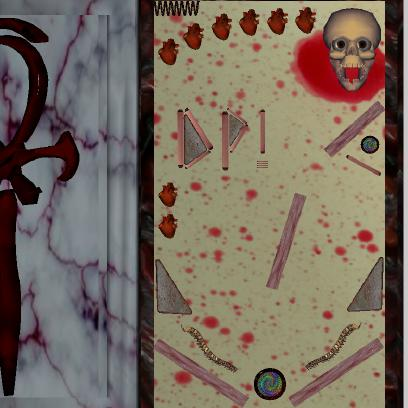
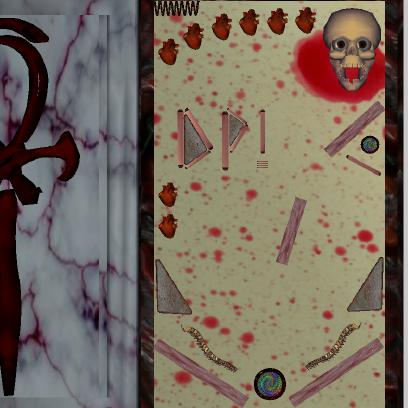
changement a la map DoubleP et a la vitesse angulaire des palettes

Changed region(s): [[0.6471, 0.4706, 0.7647, 0.7059]]

diff --git a/Sources/DLL/Arbre/Noeuds/AnimationNoeudsDefine.h b/Sources/DLL/Arbre/Noeuds/AnimationNoeudsDefine.h
@@ -23,7 +23,7 @@ enum Direction { dirY, dirYX, dirX, dirXY, dirZ }; // Pour fonctionner avec le s
 #define TEMPS_ILLUMINATION_NOEUD_BUTOIR .5		// Temsp pendant le quel un butoir s'illumine
 
 // Bille
-#define VITESSE_MAX_NOEUD_BILLE 200.		// Vitesse maximale de la bille
+#define VITESSE_MAX_NOEUD_BILLE 300.		// Vitesse maximale de la bille
 #define MASSE_NOEUD_BILLE 30.				// Poids (en kg?) de la bille
 #define FROTTEMENT_NOEUD_BILLE 10.		// Constante de frottement
 #define GRAVITE_NOEUD_BILLE glm::dvec3{ 0, -utilitaire::GRAVITE  * MASSE_NOEUD_BILLE, 0 }	// Force de la gravite appliquer sur la bille
@@ -54,7 +54,7 @@ enum Direction { dirY, dirYX, dirX, dirXY, dirZ }; // Pour fonctionner avec le s
 #define VITESSE_NOEUD_TROU 360./4.	// 1 tour toute les 4 secondes
 
 // Palettes
-#define VITESSE_ANGULAIRE_PALETTE_ACTIVE 500 // 500 degres par seconde approximativement 9 degres par 60ieme de seconde.
+#define VITESSE_ANGULAIRE_PALETTE_ACTIVE 700 // 500 degres par seconde approximativement 9 degres par 60ieme de seconde.
 #define VITESSE_ANGULAIRE_PALETTE_RETOUR 150 
 
 // Portails
